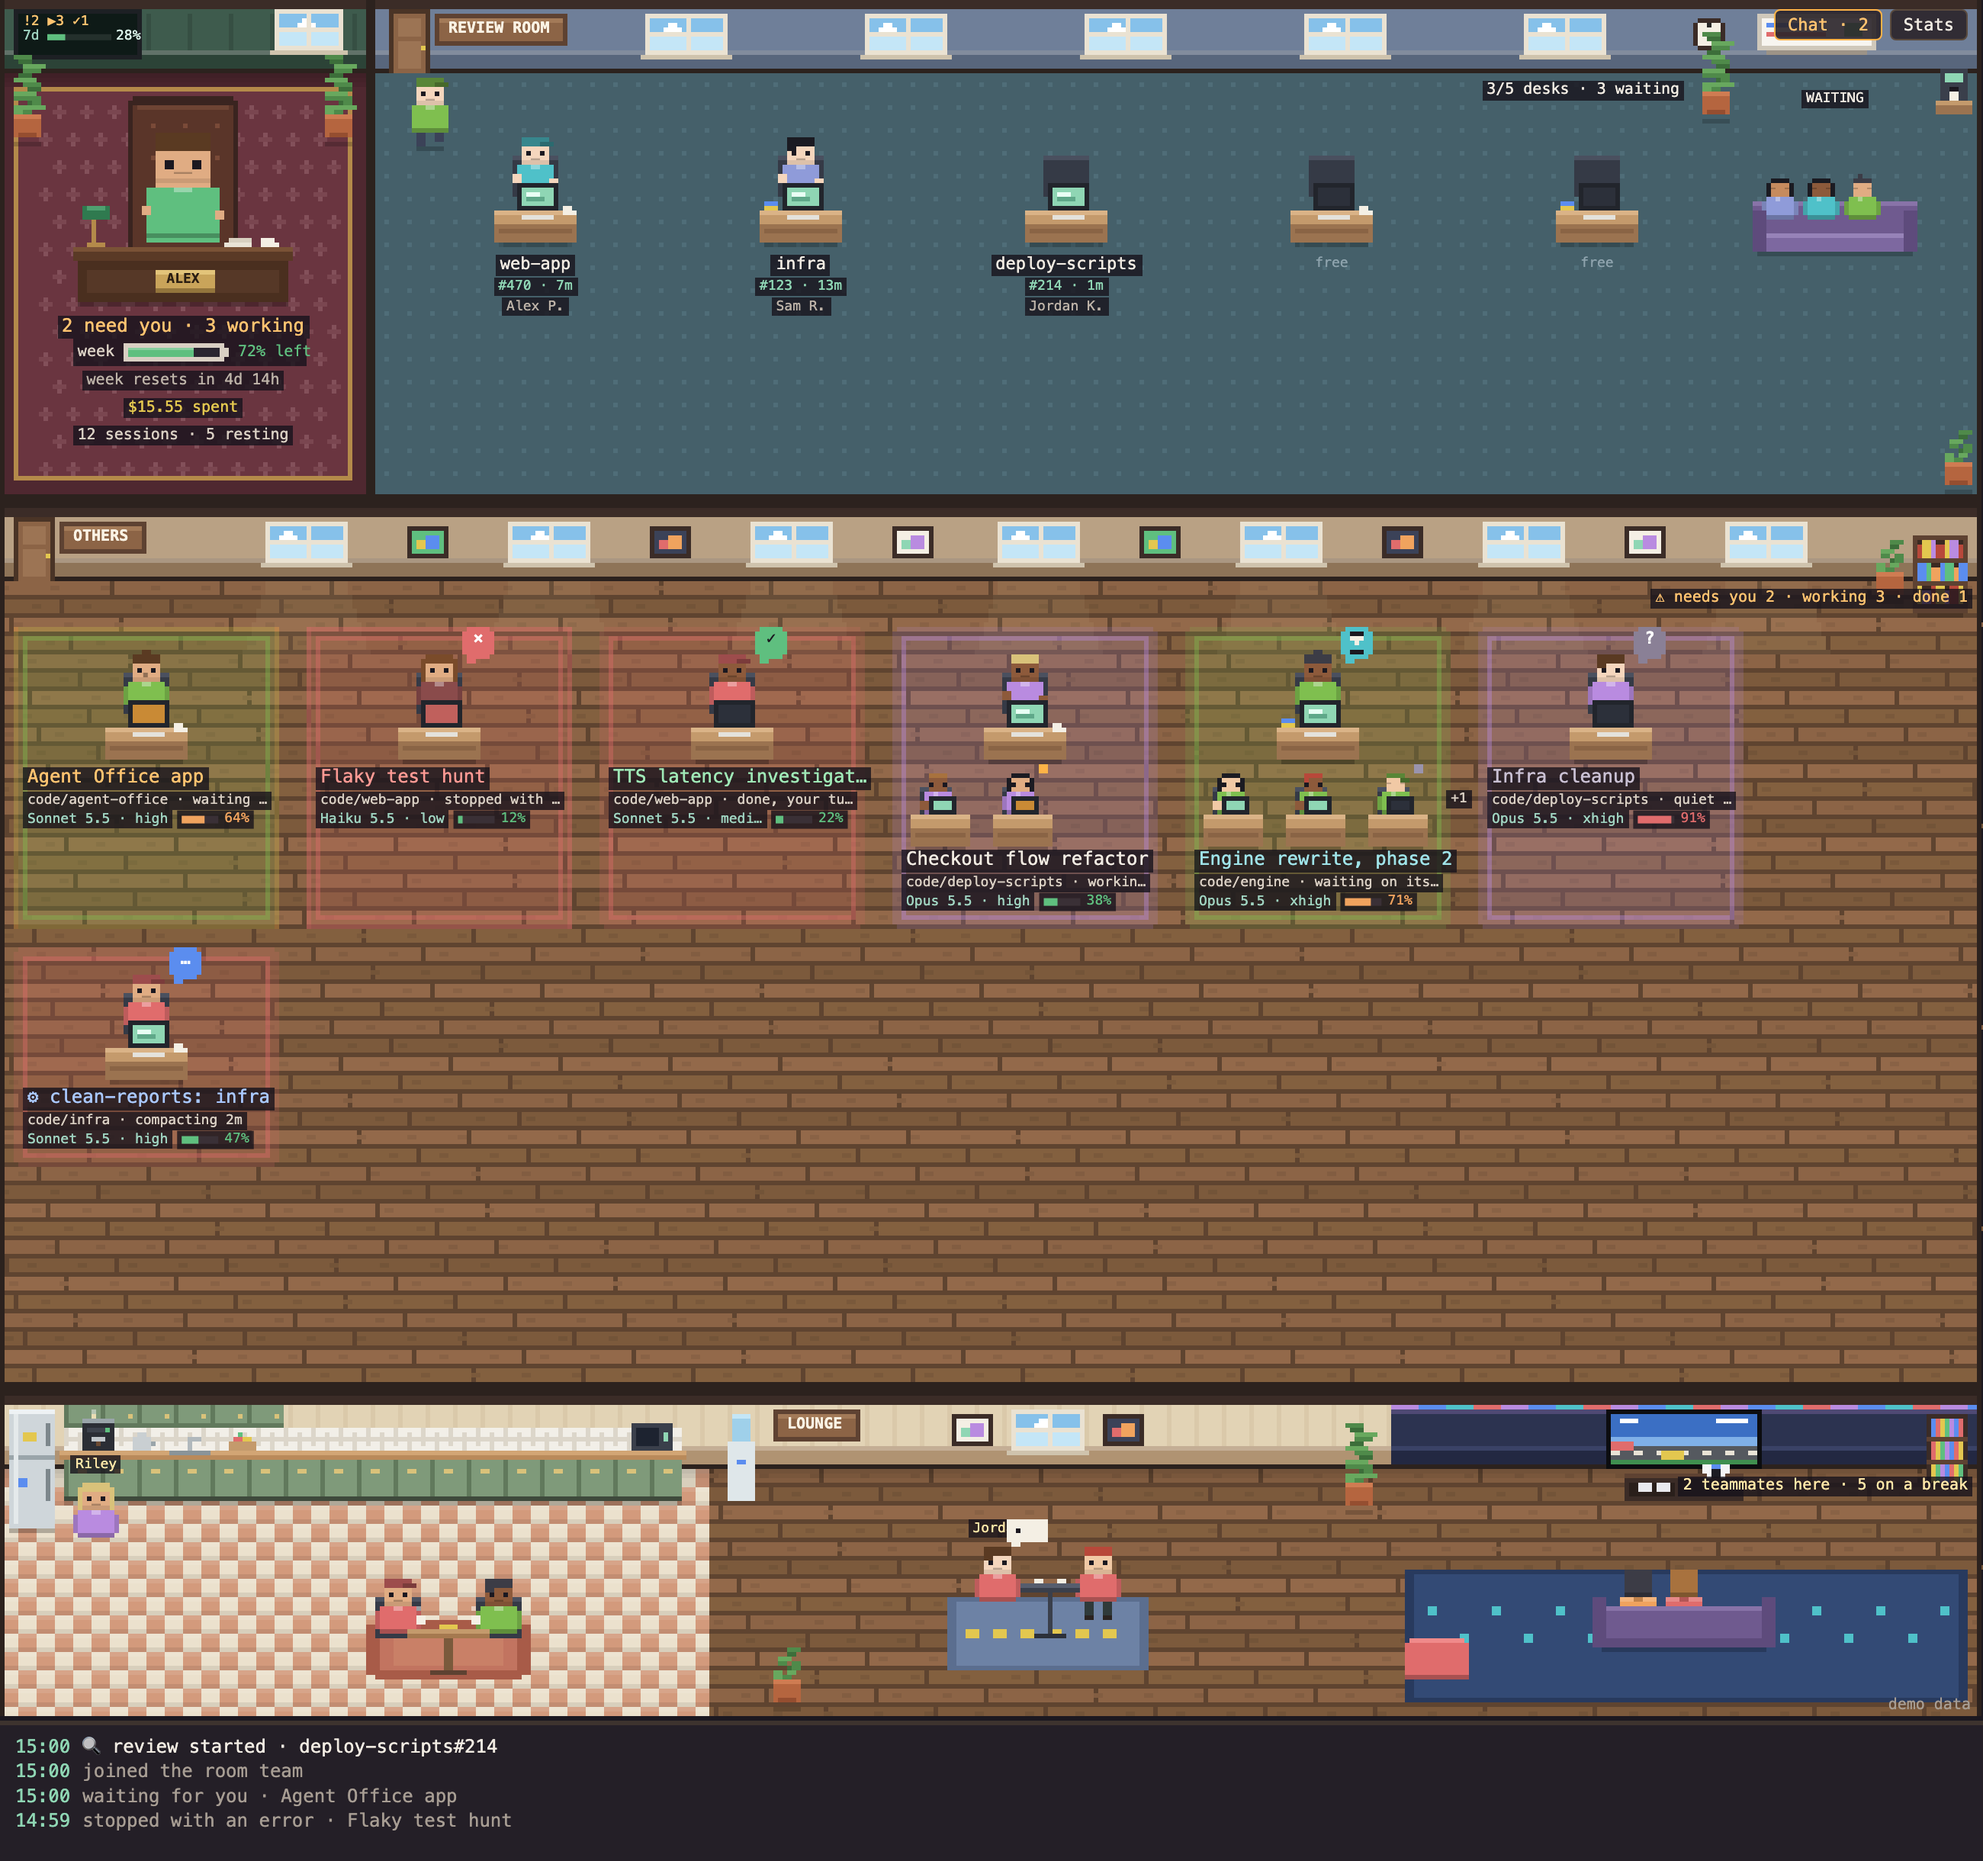
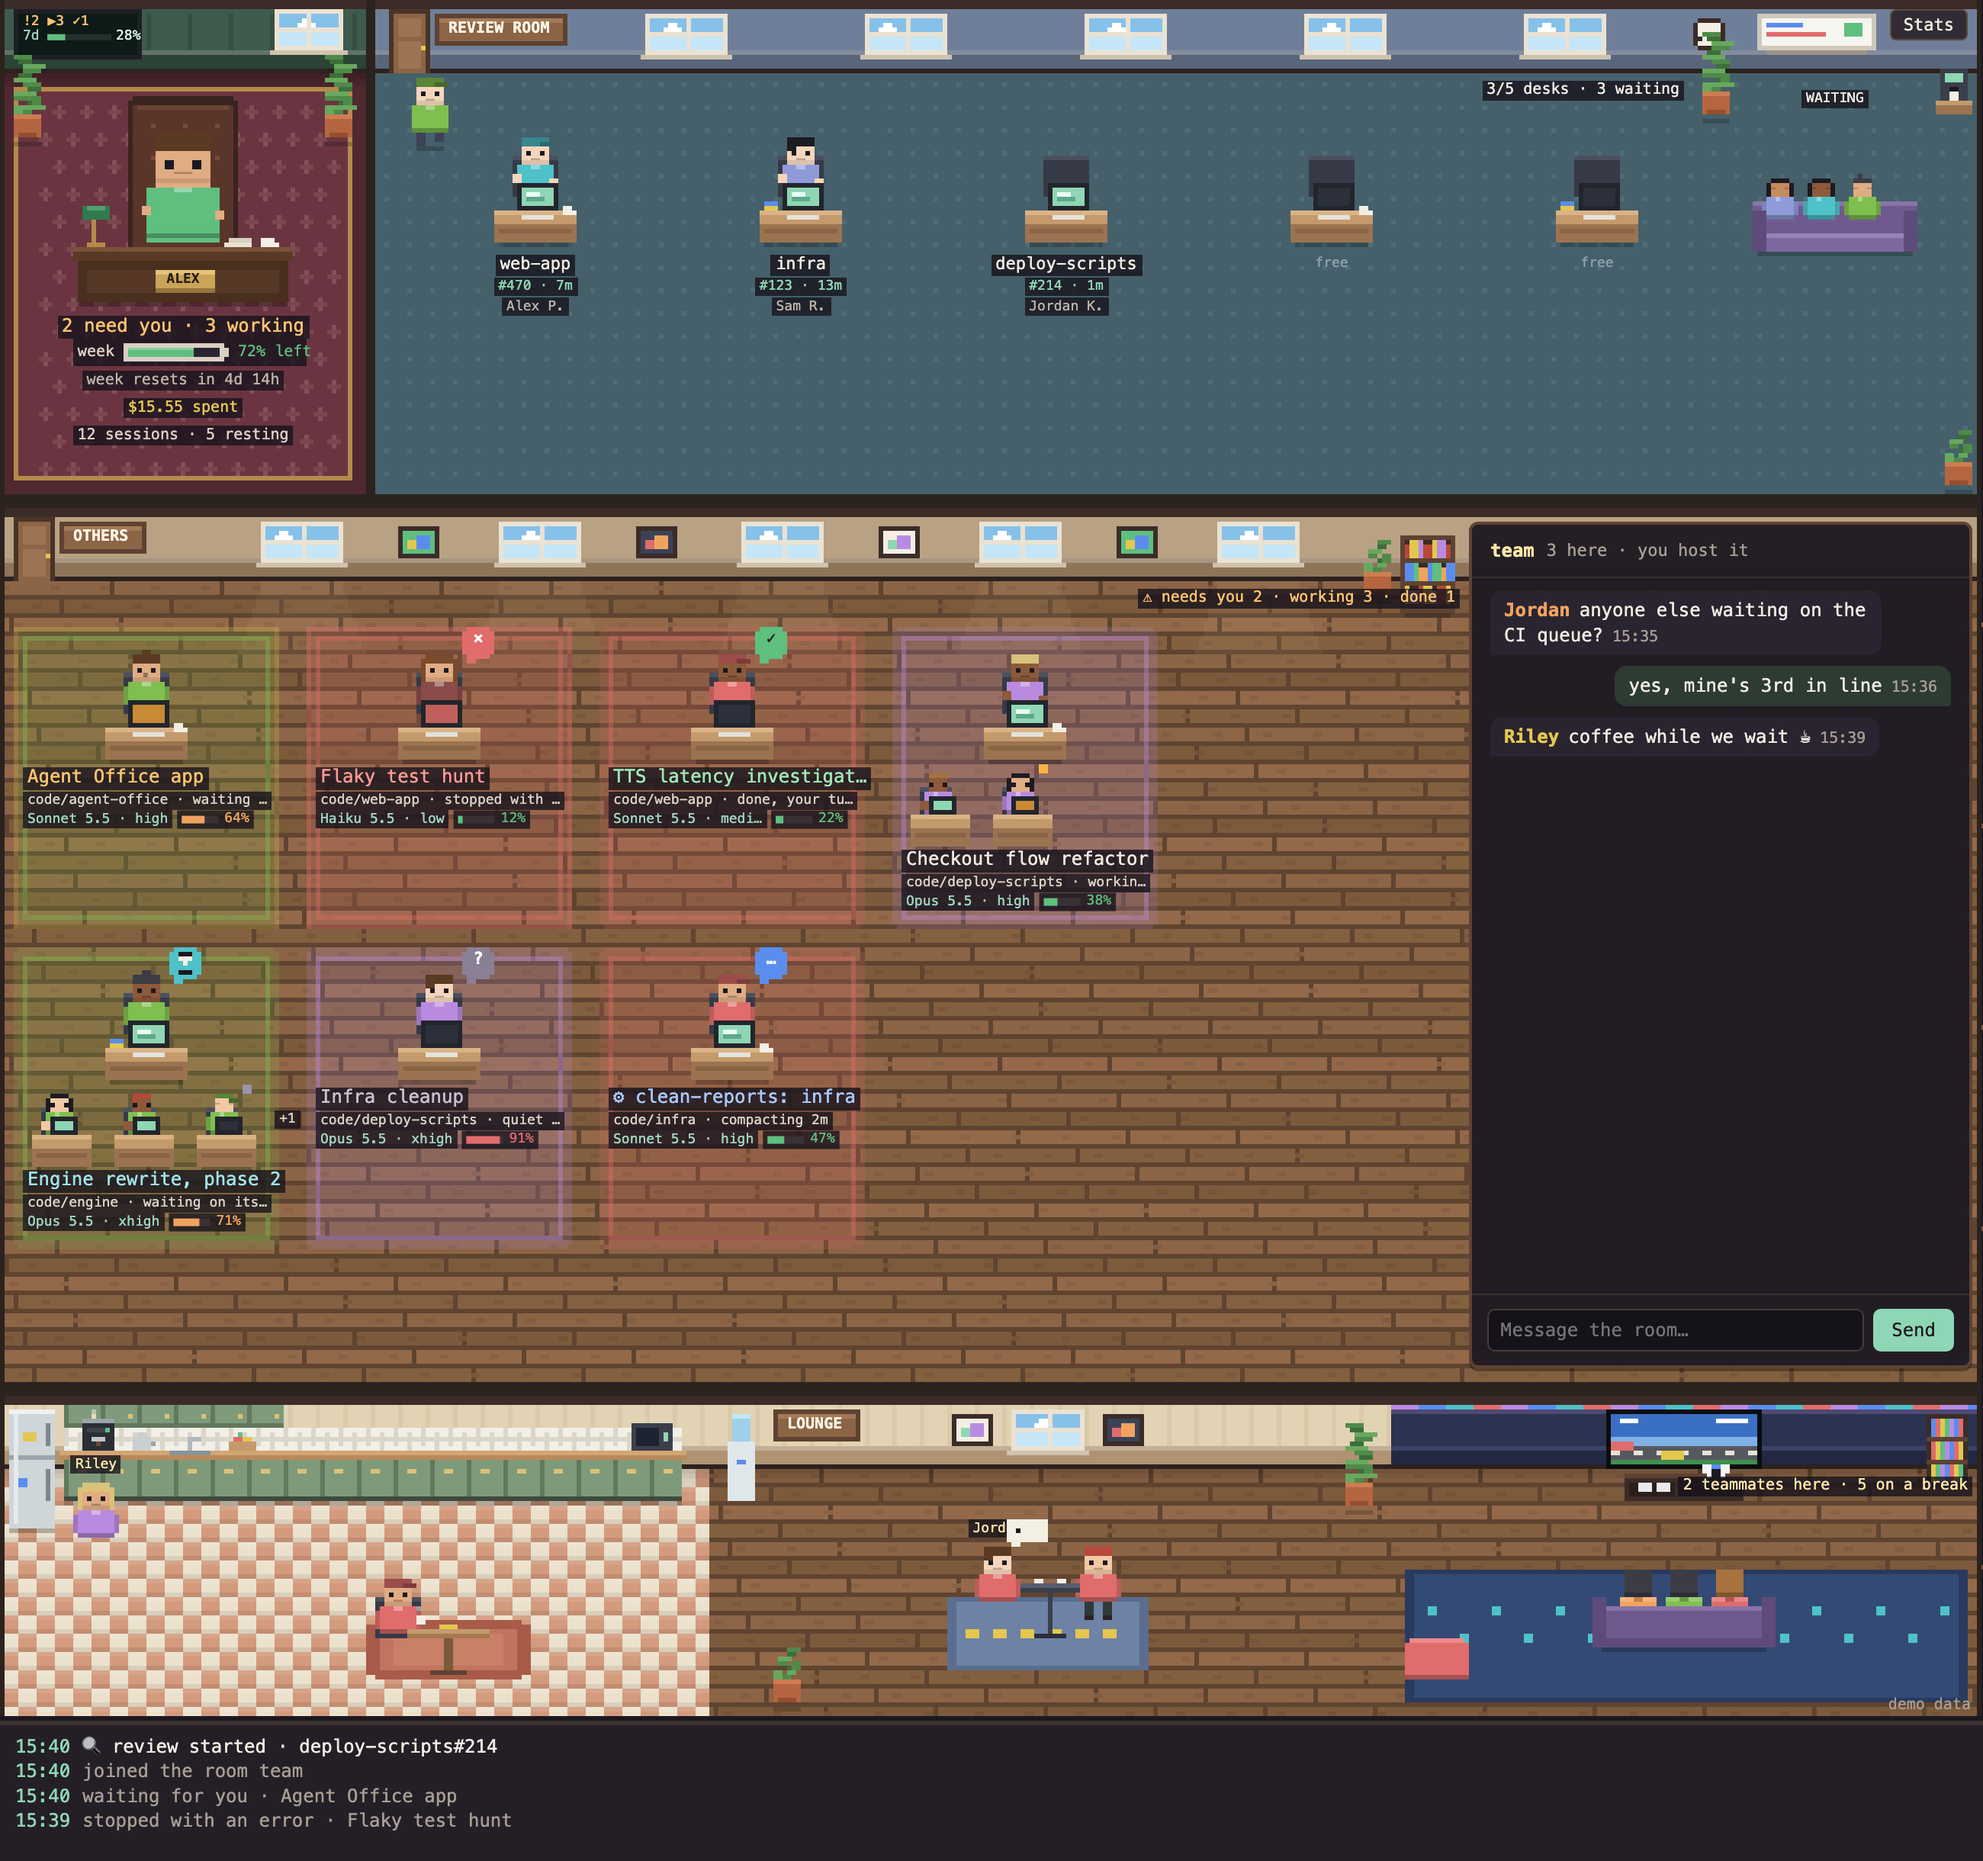
Chat docked on the right of the others room whenever a room is set up
With a room configured (joined, looking, or local because it is not reachable) the chat is
a fixed panel on the others room's right side, always open, and the desks, windows,
bookshelf and counts reflow to its left. In a window too narrow for it (under 720 px) it
falls back to the floating panel behind the Chat button.

Verified: headless renders joined, local-only (with Try now) and at 700 px.

diff --git a/web/office.html b/web/office.html
@@ -36,6 +36,8 @@
   #chat { position: fixed; top: 34px; right: 10px; width: min(340px, calc(100vw - 20px)); bottom: calc(var(--log-h, 92px) + 8px);
     z-index: 5; display: none; flex-direction: column; background: #1f1a22f5; border: 1px solid #4a3d36; border-radius: 8px;
     box-shadow: 0 8px 30px #0008; overflow: hidden; }
+  #chat.docked { position: absolute; z-index: 2; display: flex; border-radius: 6px; box-shadow: 0 2px 0 #00000055;
+    border: 2px solid #5e4232; background: #1f1a22f7; }
   #chat .head { padding: 9px 12px; border-bottom: 1px solid #3a302c; display: flex; align-items: center; gap: 8px; }
   #chat .head b { color: #ffe7a8; white-space: nowrap; overflow: hidden; text-overflow: ellipsis; }
   #chat .head span { color: var(--muted); font-size: 11px; flex: 1; white-space: nowrap; overflow: hidden; text-overflow: ellipsis; }
@@ -429,15 +431,15 @@ function paintRooms(L) {
   wall(0, oy, cols, "#b9a184", "#8e7458");
   woodFloor(0, oy + WALL, cols, L.othersH - WALL);
   door(3, oy);
-  const span = cols - 40 - 20;
+  const span = cols - L.chatW - 40 - 20;
   for (let k = 0, nW = Math.max(1, Math.floor(span / 48)); k < nW; k++) {
     const wx = Math.round(40 + (k + 0.5) * span / nW - 8);
     windowAt(wx, oy + 4, 16, 7, sky, 3 + k * 11);
     if (sky.kind === "day") for (let j = 0; j < 16; j++) px(wx - 1 - Math.floor(j / 3), oy + WALL + j, 18 + Math.floor(j / 3) * 2, 1, "rgba(255,238,190,0.06)");
     if (k < nW - 1) frameArt(Math.round(wx + span / nW / 2 + 3), oy + 4, k);
   }
-  bookshelf(cols - 15, oy + WALL - 10);
-  plant(cols - 24, oy + WALL + 3, false);
+  bookshelf(cols - L.chatW - 15, oy + WALL - 10);
+  plant(cols - L.chatW - 24, oy + WALL + 3, false);
   sign("OTHERS", 13, oy + 3);
   // team rugs
   for (const c of L.cells) rug(c.x - 3, c.y + 1, L.teamW - 6, c.h - 4, c.rug);
@@ -531,7 +533,9 @@ const STATE_WORD = { background: "waiting on its subagents", waiting: "waiting f
 function layout() {
   const W = Math.max(320, wrap.clientWidth), cols = Math.floor(W / P);
   const reviewH = snap.manager ? 108 : 82, teamW = 64, loungeH = 70;
-  const perRow = Math.max(1, Math.floor((cols - 8) / teamW));
+  // with a room set up (joined or not), the chat is docked on the others room's right side
+  const chatW = room.status !== "off" && cols >= 240 ? Math.min(112, Math.max(92, Math.floor(cols * 0.26))) : 0;
+  const perRow = Math.max(1, Math.floor((cols - 8 - chatW) / teamW));
   const rowsOf = [];
   snap.others.forEach((s, k) => { const r = Math.floor(k / perRow); rowsOf[r] = rowsOf[r] || []; rowsOf[r].push(s); });
   const rowH = rowsOf.map(r => r.some(s => agentsOf(s).length) ? 70 : 52);
@@ -544,7 +548,7 @@ function layout() {
   const cells = []; let ry = oy + WALL + 9;
   rowsOf.forEach((row, r) => { row.forEach((s, c) => cells.push({ s, x: 6 + c * teamW, y: ry, h: rowH[r],
     rug: SHIRTS[hash(team(s.cwd) || s.id) % SHIRTS.length] })); ry += rowH[r]; });
-  return { W, cols, H: (ly + loungeH) * P, reviewH, oy, othersH, ly, loungeH, teamW, benchW, bx, mw, rx, cells, endY: ry };
+  return { W, cols, H: (ly + loungeH) * P, reviewH, oy, othersH, ly, loungeH, teamW, benchW, bx, mw, rx, chatW, cells, endY: ry };
 }
 
 function draw() {
@@ -556,7 +560,7 @@ function draw() {
   if (cv.width !== W * dpr || cv.height !== H * dpr) { cv.width = W * dpr; cv.height = H * dpr; cv.style.width = W + "px"; cv.style.height = H + "px"; }
   // the room layer, repainted only when the layout or the minute changes
   const d = new Date();
-  const key = [W, H, dpr, d.getHours(), d.getMinutes(), mgrSrc && mgrCut ? mgrSrc.length + ":" + mgrSrc.slice(-24) : "", snap.manager ? snap.manager.name : "", L.cells.map(c => c.x + "," + c.y + "," + c.h + c.rug).join(";")].join("|");
+  const key = [W, H, dpr, L.chatW, d.getHours(), d.getMinutes(), mgrSrc && mgrCut ? mgrSrc.length + ":" + mgrSrc.slice(-24) : "", snap.manager ? snap.manager.name : "", L.cells.map(c => c.x + "," + c.y + "," + c.h + c.rug).join(";")].join("|");
   if (key !== layerKey) {
     layerKey = key; layer.width = W * dpr; layer.height = H * dpr;
     g = lctx; lctx.setTransform(dpr, 0, 0, dpr, 0, 0); lctx.imageSmoothingEnabled = false;
@@ -612,7 +616,8 @@ function draw() {
   const cnt = st => states.filter(x => x === st).length;
   const needs = cnt("waiting") + cnt("crashed");
   label(`${needs ? "⚠ " : ""}needs you ${needs} · working ${cnt("working") + cnt("compacting") + cnt("background")} · done ${cnt("done")}`,
-    (cols - 3) * P, (oy + WALL + 2) * P, needs ? "#ffc370" : "#f1ebe2", 10, "right");
+    (cols - L.chatW - 3) * P, (oy + WALL + 2) * P, needs ? "#ffc370" : "#f1ebe2", 10, "right");
+  dockChat(L);
   if (!snap.others.length) label(snap.lounge.length ? "everyone is on a break" : snap.hiddenCount ? "everyone is hidden — right-click to show them" : "no Claude sessions running",
     24 * P, (oy + WALL + 8) * P, "#d9cfc3", 10);
   for (const c of L.cells) {
@@ -1095,16 +1100,35 @@ function drawMate(s, spot, p) {
 // the chat panel
 const chatEl = document.getElementById("chat"), chatBtn = document.getElementById("chatBtn"), msgsEl = document.getElementById("msgs");
 const sayForm = document.getElementById("say"), sayIn = document.getElementById("sayIn");
+wrap.appendChild(chatEl);              // docked, it scrolls with the office
+let docked = false;
+// Docked: a fixed panel on the right of the others room, always open, no button. Too narrow a
+// window for that: the floating panel behind the Chat button.
+function dockChat(L) {
+  const want = L.chatW > 0;
+  if (want) {
+    const x = (L.cols - L.chatW) * P, top = (L.oy + 3) * P;
+    Object.assign(chatEl.style, { left: x + "px", top: top + "px", width: (L.chatW - 2) * P + "px",
+      height: (L.othersH - 6) * P + "px", right: "auto", bottom: "auto", display: "flex" });
+  }
+  if (want === docked) return;
+  docked = want;
+  chatEl.classList.toggle("docked", docked);
+  if (!docked) { for (const k of ["left", "top", "width", "height", "right", "bottom"]) chatEl.style[k] = ""; chatEl.style.display = chatOpen ? "flex" : "none"; }
+  renderChat();
+}
 function toggleChat(on) {
+  if (docked) { if (on !== false) sayIn.focus(); return; }
   chatOpen = on === undefined ? !chatOpen : on;
   chatEl.style.display = chatOpen ? "flex" : "none";
   if (chatOpen) { seenMsgs = room.messages.length; renderChat(); setTimeout(() => sayIn.focus(), 0); }
 }
 function renderChat() {
-  chatBtn.style.display = room.status === "off" ? "none" : "block";
+  chatBtn.style.display = room.status === "off" || docked ? "none" : "block";
   if (room.status === "off" && chatOpen) toggleChat(false);
-  const unread = chatOpen ? 0 : room.messages.slice(seenMsgs).filter(m => m.id !== room.you).length;
-  if (chatOpen) seenMsgs = room.messages.length;
+  const open = chatOpen || docked;
+  const unread = open ? 0 : room.messages.slice(seenMsgs).filter(m => m.id !== room.you).length;
+  if (open) seenMsgs = room.messages.length;
   chatBtn.textContent = unread ? `Chat · ${unread}` : "Chat";
   chatBtn.classList.toggle("unread", unread > 0);
   document.getElementById("roomName").textContent = room.name || "";
@@ -1116,7 +1140,7 @@ function renderChat() {
   const can = room.status === "joined";
   sayIn.disabled = !can; sayForm.querySelector("button").disabled = !can;
   sayIn.placeholder = can ? "Message the room…" : "Not in the room";
-  if (!chatOpen) return;
+  if (!open) return;
   const html = room.messages.map(m => {
     const mine = m.id === room.you, col = SHIRTS[hash(m.id) % SHIRTS.length];
     return `<div class="m ${mine ? "mine" : "theirs"}">${mine ? "" : `<span class="who" style="color:${col}">${esc(m.from)}</span>`}${esc(m.text)}<span class="at">${hhmm(m.at)}</span></div>`;
@@ -1190,7 +1214,7 @@ document.addEventListener("contextmenu", ev => {
 });
 document.addEventListener("mousedown", ev => { if (!menu.contains(ev.target)) closeMenu(); });
 document.addEventListener("keydown", ev => {
-  if (ev.key === "Escape") { closeMenu(); if (statsOpen) toggleStats(false); if (chatOpen) toggleChat(false); return; }
+  if (ev.key === "Escape") { closeMenu(); if (statsOpen) toggleStats(false); if (docked) sayIn.blur(); else if (chatOpen) toggleChat(false); return; }
   if (ev.target && ev.target.tagName === "INPUT") return;      // typing a message
   if (ev.metaKey || ev.ctrlKey || ev.altKey) return;
   if (ev.key === "s" || ev.key === "S") toggleStats();

diff --git a/README.md b/README.md
@@ -128,7 +128,10 @@ without it.
 
 Teammates on the same office network can share their lounge. Everyone in the room appears in
 everyone's lounge as their own pixel character, their name over their head, drinking coffee and
-playing on the console, and **Chat** (top right, or **C**) talks to the whole room.
+playing on the console, and the chat talks to the whole room. With a room set up the chat is a
+fixed panel on the right of the others room, whether you are in the room or it is local right
+now (the panel then says so, with **Try now**); in a narrow window it moves behind a **Chat**
+button (or **C**).
 
 Only the people are shared. Your agents stay yours: your desks, your review room, your manager's
 room, and your agents on a break in the lounge are drawn from your own sessions and are never
